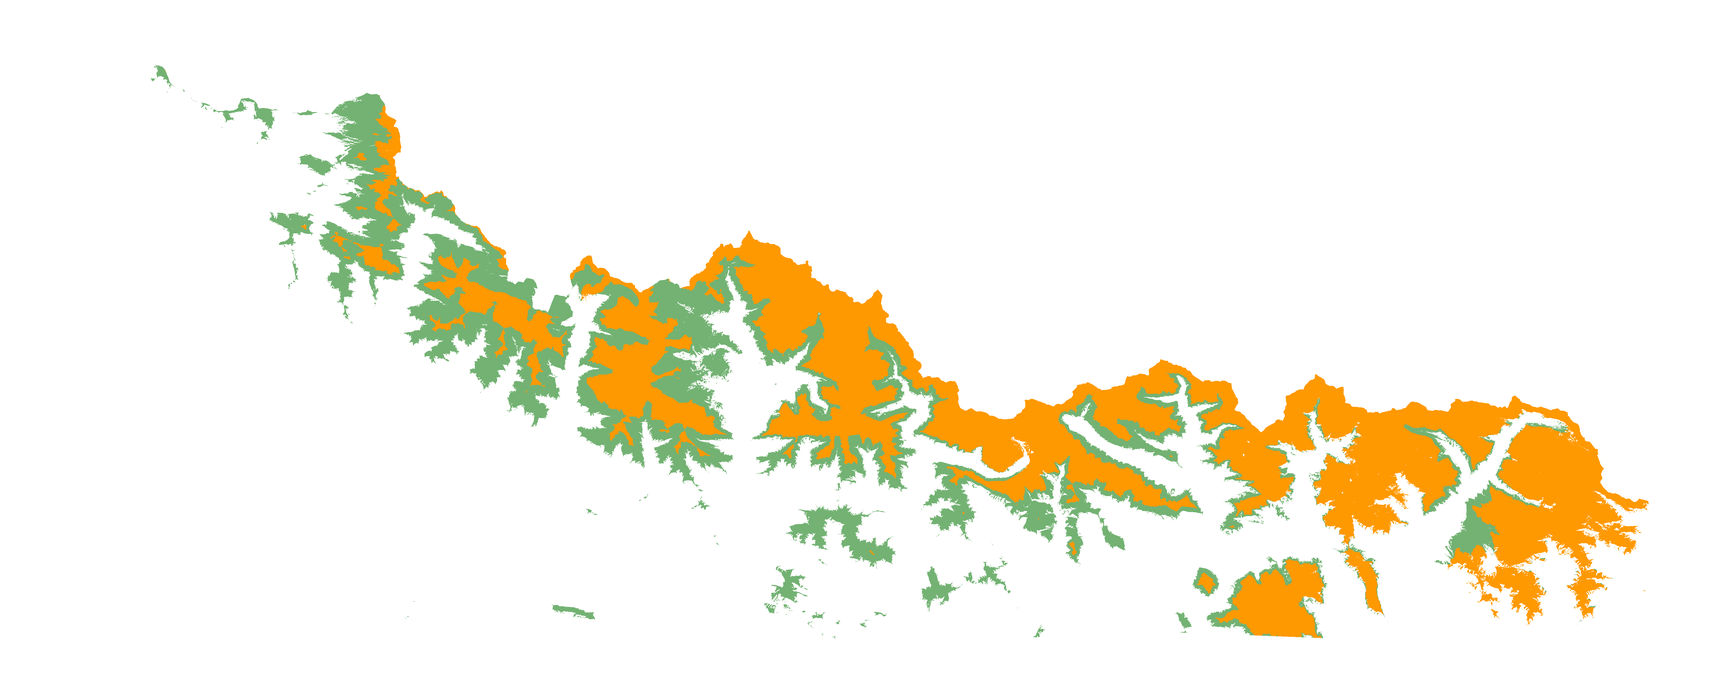
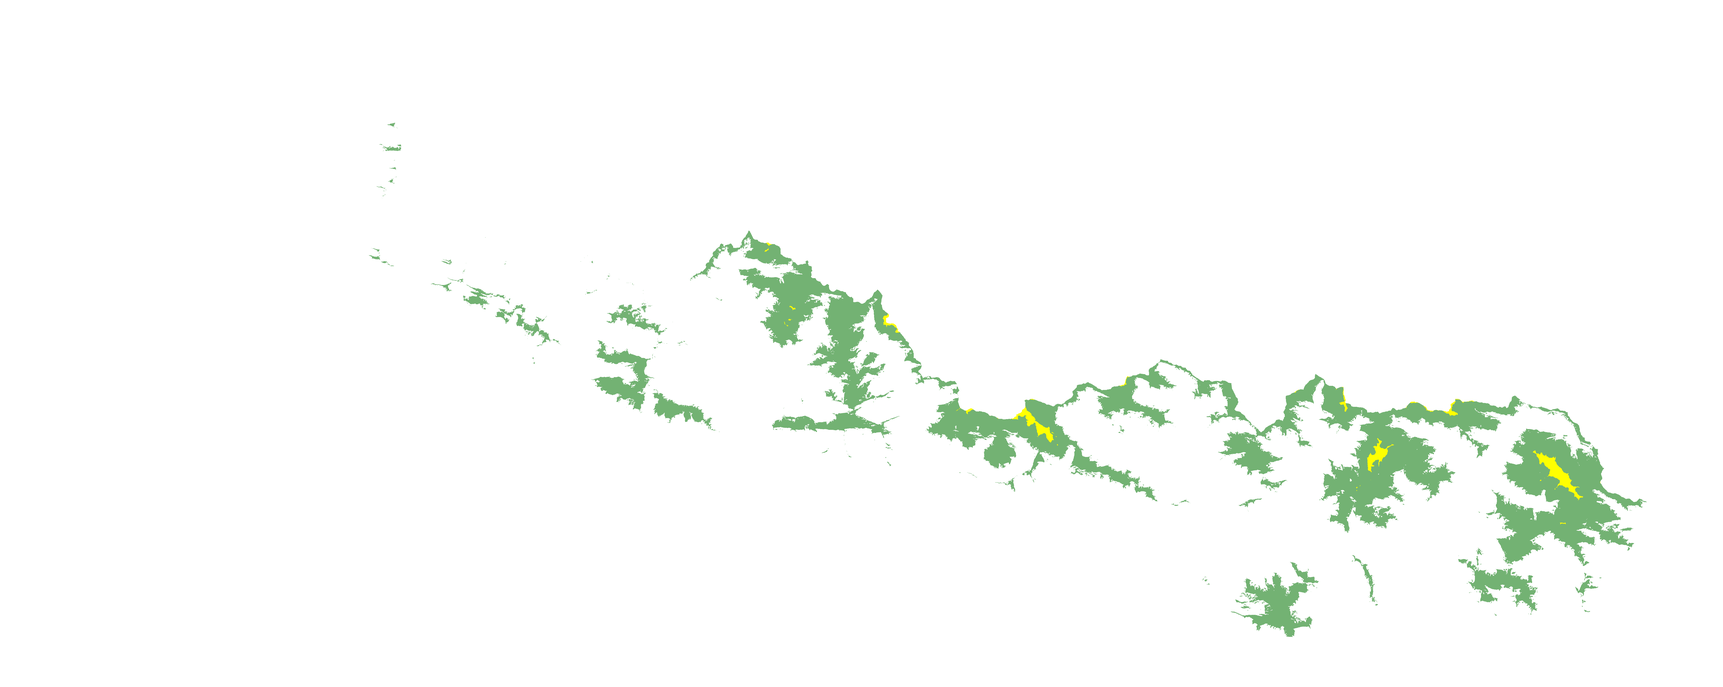
Lunes 16

diff --git a/layers/Nivmetros_4.js b/layers/Nivmetros_4.js
@@ -1,0 +1,1 @@
+var json_Nivmetros_4 = {"type":"FeatureCollection","name":"Nivmetros_4","crs":{"type":"name","properties":{"name":"urn:ogc:def:crs:OGC:1.3:CRS84"}},"features":[{"type":"Feature","properties":{"fid":"1","nombre":"Lizara","tipo":"Refugios FAM","coordenada x":693581.68302999996,"coordenada y":4737333.8582199998,"espesor":0.0,"fecha":null,"Altura":1521.78296,"espesor teórico":0.0,"residuo":0.0},"geometry":{"type":"Point","coordinates":[-0.634092478083963,42.764102460019188]}},{"type":"Feature","properties":{"fid":"2","nombre":"Casa de Piedra","tipo":"Refugios FAM","coordenada x":726359.21985999995,"coordenada y":4738169.3337599998,"espesor":0.0,"fecha":null,"Altura":1639.22498,"espesor teórico":0.0,"residuo":0.0},"geometry":{"type":"Point","coordinates":[-0.233581308681857,42.762645417462728]}},{"type":"Feature","properties":{"fid":"3","nombre":"Respomuso","tipo":"Refugios FAM","coordenada x":721743.6233,"coordenada y":4744055.5332500003,"espesor":1.0,"fecha":null,"Altura":2143.3269,"espesor teórico":0.0,"residuo":1.0},"geometry":{"type":"Point","coordinates":[-0.287615323405017,42.816941924670928]}},{"type":"Feature","properties":{"fid":"4","nombre":"Bachimaña","tipo":"Refugios FAM","coordenada x":726787.39141000004,"coordenada y":4740111.5631799996,"espesor":2.0,"fecha":null,"Altura":2189.64893,"espesor teórico":0.0,"residuo":2.0},"geometry":{"type":"Point","coordinates":[-0.227574750252922,42.779989088848616]}},{"type":"Feature","properties":{"fid":"5","nombre":"Góriz","tipo":"Refugios FAM","coordenada x":747096.9437,"coordenada y":4727836.7968600001,"espesor":0.0,"fecha":null,"Altura":2192.49805,"espesor teórico":0.0,"residuo":0.0},"geometry":{"type":"Point","coordinates":[0.015028328820596,42.663325285961221]}},{"type":"Feature","properties":{"fid":"6","nombre":"Pineta","tipo":"Refugios FAM","coordenada x":754361.94833000004,"coordenada y":4728421.0887200003,"espesor":0.0,"fecha":null,"Altura":1241.09094,"espesor teórico":0.0,"residuo":0.0},"geometry":{"type":"Point","coordinates":[0.103811223545876,42.666213199568325]}},{"type":"Feature","properties":{"fid":"7","nombre":"Estós","tipo":"Refugios FAM","coordenada x":785584.46502,"coordenada y":4730663.9656800004,"espesor":0.0,"fecha":null,"Altura":1894.08801,"espesor teórico":0.0,"residuo":0.0},"geometry":{"type":"Point","coordinates":[0.485277747576362,42.675425811572559]}},{"type":"Feature","properties":{"fid":"8","nombre":"Ángel Orús","tipo":"Refugios FAM","coordenada x":783518.57593000005,"coordenada y":4725241.4898899999,"espesor":null,"fecha":null,"Altura":2111.10693,"espesor teórico":0.0,"residuo":null},"geometry":{"type":"Point","coordinates":[0.457406411436772,42.627445963182311]}},{"type":"Feature","properties":{"fid":"9","nombre":"Renclusa","tipo":"Refugios FAM","coordenada x":799183.1625,"coordenada y":4730562.7193400003,"espesor":null,"fecha":null,"Altura":2138.42505,"espesor teórico":0.0,"residuo":null},"geometry":{"type":"Point","coordinates":[0.650862385917661,42.669349881769421]}},{"type":"Feature","properties":{"fid":"10","nombre":"Cap de Llauset","tipo":"Refugios FAM","coordenada x":802194.27506000001,"coordenada y":4722560.3940300001,"espesor":null,"fecha":null,"Altura":2421.94092,"espesor teórico":2.76806,"residuo":null},"geometry":{"type":"Point","coordinates":[0.683283592250226,42.596256729961645]}},{"type":"Feature","properties":{"fid":"11","nombre":"Quimboa","tipo":"SAIH","coordenada x":682666.40000999998,"coordenada y":4748199.6773800002,"espesor":null,"fecha":null,"Altura":1812.48401,"espesor teórico":0.0,"residuo":null},"geometry":{"type":"Point","coordinates":[-0.763872812183502,42.864556450581759]}},{"type":"Feature","properties":{"fid":"12","nombre":"Canal Roya","tipo":"SAIH","coordenada x":708647.29315000004,"coordenada y":4740545.1448400002,"espesor":null,"fecha":null,"Altura":1867.35303,"espesor teórico":0.0,"residuo":null},"geometry":{"type":"Point","coordinates":[-0.448949429023893,42.789042421793091]}},{"type":"Feature","properties":{"fid":"13","nombre":"Izas","tipo":"SAIH","coordenada x":710245.59417000005,"coordenada y":4735934.1855199998,"espesor":3.0,"fecha":null,"Altura":2084.34497,"espesor teórico":0.0,"residuo":3.0},"geometry":{"type":"Point","coordinates":[-0.431142530867644,42.747123610739408]}},{"type":"Feature","properties":{"fid":"14","nombre":"Bachimaña","tipo":"SAIH","coordenada x":727282.03001999995,"coordenada y":4741347.3868399998,"espesor":null,"fecha":null,"Altura":2219.41406,"espesor teórico":0.0,"residuo":null},"geometry":{"type":"Point","coordinates":[-0.221037285605676,42.790958606081027]}},{"type":"Feature","properties":{"fid":"15","nombre":"Lapazosa","tipo":"SAIH","coordenada x":739389.85580999998,"coordenada y":4732574.5073199999,"espesor":null,"fecha":null,"Altura":2109.20703,"espesor teórico":0.0,"residuo":null},"geometry":{"type":"Point","coordinates":[-0.0768921950356,42.708371135834817]}},{"type":"Feature","properties":{"fid":"16","nombre":"Ordiceto","tipo":"SAIH","coordenada x":768524.07010999997,"coordenada y":4729209.4190100003,"espesor":null,"fecha":null,"Altura":2396.09692,"espesor teórico":0.0,"residuo":null},"geometry":{"type":"Point","coordinates":[0.276726906928964,42.668491107199706]}},{"type":"Feature","properties":{"fid":"17","nombre":"Eriste","tipo":"SAIH","coordenada x":783049.44212000002,"coordenada y":4724892.1513599996,"espesor":null,"fecha":null,"Altura":2301.33594,"espesor teórico":2.64537,"residuo":null},"geometry":{"type":"Point","coordinates":[0.45152191493727,42.624478057715478]}},{"type":"Feature","properties":{"fid":"18","nombre":"La Besurta","tipo":"SAIH","coordenada x":799420.43446000002,"coordenada y":4731388.9204000002,"espesor":null,"fecha":null,"Altura":1924.05103,"espesor teórico":0.0,"residuo":null},"geometry":{"type":"Point","coordinates":[0.654187592758037,42.676682913229207]}},{"type":"Feature","properties":{"fid":"19","nombre":"La Raca","tipo":"AEMET","coordenada x":704033.24234,"coordenada y":4740875.9344199998,"espesor":null,"fecha":null,"Altura":2273.71191,"espesor teórico":0.0,"residuo":null},"geometry":{"type":"Point","coordinates":[-0.505191301972843,42.79326096351118]}},{"type":"Feature","properties":{"fid":"20","nombre":"Sarrios","tipo":"AEMET","coordenada x":713401.61404999997,"coordenada y":4737709.5535399998,"espesor":0.0,"fecha":null,"Altura":1801.48804,"espesor teórico":0.0,"residuo":0.0},"geometry":{"type":"Point","coordinates":[-0.391949690152991,42.762223942647786]}},{"type":"Feature","properties":{"fid":"21","nombre":"Panticosa Petrosos","tipo":"AEMET","coordenada x":723145.85332,"coordenada y":4731581.15484,"espesor":0.0,"fecha":null,"Altura":1850.20898,"espesor teórico":0.0,"residuo":0.0},"geometry":{"type":"Point","coordinates":[-0.275406696360555,42.704324343555108]}},{"type":"Feature","properties":{"fid":"22","nombre":"Torla Cebollar","tipo":"AEMET","coordenada x":735646.77480999997,"coordenada y":4726633.4512200002,"espesor":0.0,"fecha":null,"Altura":1901.88904,"espesor teórico":0.0,"residuo":0.0},"geometry":{"type":"Point","coordinates":[-0.125007947667872,42.656092797543572]}},{"type":"Feature","properties":{"fid":"23","nombre":"Cerler Cogulla","tipo":"AEMET","coordenada x":790918.17727,"coordenada y":4717454.5680099996,"espesor":0.0,"fecha":null,"Altura":2367.66309,"espesor teórico":0.0,"residuo":0.0},"geometry":{"type":"Point","coordinates":[0.543503723024574,42.554696524808286]}},{"type":"Feature","properties":{"fid":"24","nombre":"Cerler max.","tipo":"Estación Esquí","coordenada x":791974.21972000005,"coordenada y":4716343.6662100004,"espesor":null,"fecha":null,"Altura":2616.4751,"espesor teórico":10.87208,"residuo":null},"geometry":{"type":"Point","coordinates":[0.555775171227835,42.54431301300361]}},{"type":"Feature","properties":{"fid":"25","nombre":"Cerler min.","tipo":"Estación Esquí","coordenada x":790690.51098000002,"coordenada y":4720939.5080800001,"espesor":null,"fecha":null,"Altura":1540.17505,"espesor teórico":0.0,"residuo":null},"geometry":{"type":"Point","coordinates":[0.542510243982016,42.58610670016926]}},{"type":"Feature","properties":{"fid":"26","nombre":"Panticosa max.","tipo":"Estación Esquí","coordenada x":723434.32204999996,"coordenada y":4730334.1713899998,"espesor":null,"fecha":null,"Altura":2201.23291,"espesor teórico":0.0,"residuo":null},"geometry":{"type":"Point","coordinates":[-0.272379770577874,42.693023495753032]}},{"type":"Feature","properties":{"fid":"27","nombre":"Panticosa min.","tipo":"Estación Esquí","coordenada x":722693.72086,"coordenada y":4733344.5780999996,"espesor":null,"fecha":null,"Altura":1178.84204,"espesor teórico":0.0,"residuo":null},"geometry":{"type":"Point","coordinates":[-0.280228082617394,42.720318147252122]}},{"type":"Feature","properties":{"fid":"28","nombre":"Formigal max.","tipo":"Estación Esquí","coordenada x":713635.07105000003,"coordenada y":4736854.2048800001,"espesor":null,"fecha":null,"Altura":2108.82104,"espesor teórico":0.0,"residuo":null},"geometry":{"type":"Point","coordinates":[-0.389422680845151,42.75446414626942]}},{"type":"Feature","properties":{"fid":"29","nombre":"Formigal min.","tipo":"Estación Esquí","coordenada x":714647.22601999994,"coordenada y":4738927.8882200001,"espesor":null,"fecha":null,"Altura":1549.63306,"espesor teórico":0.0,"residuo":null},"geometry":{"type":"Point","coordinates":[-0.376279346106182,42.77283651598659]}},{"type":"Feature","properties":{"fid":"30","nombre":"Astun max.","tipo":"Estación Esquí","coordenada x":704185.54839000001,"coordenada y":4741308.7839200003,"espesor":null,"fecha":null,"Altura":2152.88696,"espesor teórico":0.0,"residuo":null},"geometry":{"type":"Point","coordinates":[-0.503174061736756,42.797114669986357]}},{"type":"Feature","properties":{"fid":"31","nombre":"Astún min,","tipo":"Estación Esquí","coordenada x":703535.46511999995,"coordenada y":4742438.8864799999,"espesor":null,"fecha":null,"Altura":1691.13696,"espesor teórico":0.0,"residuo":null},"geometry":{"type":"Point","coordinates":[-0.51070826177788,42.807455075452744]}},{"type":"Feature","properties":{"fid":"32","nombre":"Candanchú min.","tipo":"Estación Esquí","coordenada x":701349.32010999997,"coordenada y":4740042.9044700004,"espesor":null,"fecha":null,"Altura":1588.74304,"espesor teórico":0.0,"residuo":null},"geometry":{"type":"Point","coordinates":[-0.538276316266434,42.786476166848971]}},{"type":"Feature","properties":{"fid":"33","nombre":"Candanchú mx.","tipo":"Estación Esquí","coordenada x":699961.37861000001,"coordenada y":4738384.7806799999,"espesor":null,"fecha":null,"Altura":2233.81689,"espesor teórico":0.0,"residuo":null},"geometry":{"type":"Point","coordinates":[-0.555817547486748,42.771921065413672]}},{"type":"Feature","properties":{"fid":"34","nombre":"Jaca","tipo":"Observadores","coordenada x":null,"coordenada y":null,"espesor":0.0,"fecha":null,"Altura":824.70599,"espesor teórico":0.0,"residuo":0.0},"geometry":{"type":"Point","coordinates":[-0.546638627301364,42.574532831729236]}},{"type":"Feature","properties":{"fid":"35","nombre":"Villanúa","tipo":"Observadores","coordenada x":null,"coordenada y":null,"espesor":0.0,"fecha":null,"Altura":946.16498,"espesor teórico":0.0,"residuo":0.0},"geometry":{"type":"Point","coordinates":[-0.533268652298291,42.679916447977575]}},{"type":"Feature","properties":{"fid":"36","nombre":"Biescas","tipo":"Observadores","coordenada x":null,"coordenada y":null,"espesor":0.0,"fecha":null,"Altura":854.70697,"espesor teórico":0.0,"residuo":0.0},"geometry":{"type":"Point","coordinates":[-0.322820178381034,42.629160583346923]}},{"type":"Feature","properties":{"fid":"37","nombre":"Broto","tipo":"Observadores","coordenada x":null,"coordenada y":null,"espesor":0.0,"fecha":null,"Altura":892.48999,"espesor teórico":0.0,"residuo":0.0},"geometry":{"type":"Point","coordinates":[-0.121433968511865,42.603367094330238]}},{"type":"Feature","properties":{"fid":"38","nombre":"Benasque","tipo":"Observadores","coordenada x":null,"coordenada y":null,"espesor":0.0,"fecha":null,"Altura":1133.93396,"espesor teórico":0.0,"residuo":0.0},"geometry":{"type":"Point","coordinates":[0.523709628653981,42.60452774710491]}},{"type":"Feature","properties":{"fid":"39","nombre":"Laspuña","tipo":"Observadores","coordenada x":null,"coordenada y":null,"espesor":0.0,"fecha":null,"Altura":711.93201,"espesor teórico":0.0,"residuo":0.0},"geometry":{"type":"Point","coordinates":[0.153726232788668,42.504468965034164]}}]}

diff --git a/layers/layers.js b/layers/layers.js
@@ -17,87 +17,106 @@ var lyr_MapasrasterdelIGN_0 = new ol.layer.Tile({
                             
                           });
               wms_layers.push([lyr_MapasrasterdelIGN_0, 0]);
-var lyr_BPA_final_1 = new ol.layer.Image({
+var lyr_Pendiente_1 = new ol.layer.Image({
+        opacity: 1,
+        
+    title: 'Pendiente<br />\
+    <img src="styles/legend/Pendiente_1_0.png" /> <= 25º<br />\
+    <img src="styles/legend/Pendiente_1_1.png" /> 25º - 30º<br />\
+    <img src="styles/legend/Pendiente_1_2.png" /> 30º - 45º<br />\
+    <img src="styles/legend/Pendiente_1_3.png" /> > 45º<br />' ,
+        
+        
+        source: new ol.source.ImageStatic({
+            url: "./layers/Pendiente_1.png",
+            attributions: ' ',
+            projection: 'EPSG:3857',
+            alwaysInRange: true,
+            imageExtent: [-133908.073809, 5228671.936464, 93989.753013, 5319585.631461]
+        })
+    });
+var lyr_BPA_final_2 = new ol.layer.Image({
         opacity: 1,
         
     title: 'BPA_final<br />\
-    <img src="styles/legend/BPA_final_1_0.png" /> 0<br />\
-    <img src="styles/legend/BPA_final_1_1.png" /> Débil<br />\
-    <img src="styles/legend/BPA_final_1_2.png" /> Moderado<br />\
-    <img src="styles/legend/BPA_final_1_3.png" /> Notable<br />\
-    <img src="styles/legend/BPA_final_1_4.png" /> Fuerte<br />\
-    <img src="styles/legend/BPA_final_1_5.png" /> Muy fuerte<br />' ,
+    <img src="styles/legend/BPA_final_2_0.png" /> 0<br />\
+    <img src="styles/legend/BPA_final_2_1.png" /> Débil<br />\
+    <img src="styles/legend/BPA_final_2_2.png" /> Moderado<br />\
+    <img src="styles/legend/BPA_final_2_3.png" /> Notable<br />\
+    <img src="styles/legend/BPA_final_2_4.png" /> Fuerte<br />\
+    <img src="styles/legend/BPA_final_2_5.png" /> Muy fuerte<br />' ,
         
         
         source: new ol.source.ImageStatic({
-            url: "./layers/BPA_final_1.png",
+            url: "./layers/BPA_final_2.png",
             attributions: ' ',
             projection: 'EPSG:3857',
             alwaysInRange: true,
-            imageExtent: [-133908.791385, 5228636.520462, 94023.819477, 5319585.631461]
+            imageExtent: [-133908.073809, 5228671.936464, 93989.753013, 5319585.631461]
         })
     });
-var lyr_MapaEspesores13noviembre_2 = new ol.layer.Image({
+var lyr_Mapaespesores16noviembre_3 = new ol.layer.Image({
         opacity: 1,
         
-    title: 'Mapa Espesores 13 noviembre<br />\
-    <img src="styles/legend/MapaEspesores13noviembre_2_0.png" /> 0<br />\
-    <img src="styles/legend/MapaEspesores13noviembre_2_1.png" /> 1 - 2<br />\
-    <img src="styles/legend/MapaEspesores13noviembre_2_2.png" /> 2 - 5<br />\
-    <img src="styles/legend/MapaEspesores13noviembre_2_3.png" /> 5 - 10<br />' ,
+    title: 'Mapa espesores 16 noviembre<br />\
+    <img src="styles/legend/Mapaespesores16noviembre_3_0.png" /> 0<br />\
+    <img src="styles/legend/Mapaespesores16noviembre_3_1.png" /> 1 - 2<br />\
+    <img src="styles/legend/Mapaespesores16noviembre_3_2.png" /> 2 - 10 <br />\
+    <img src="styles/legend/Mapaespesores16noviembre_3_3.png" /> 10 - 20<br />\
+    <img src="styles/legend/Mapaespesores16noviembre_3_4.png" /> 20 - 30<br />' ,
         
         
         source: new ol.source.ImageStatic({
-            url: "./layers/MapaEspesores13noviembre_2.png",
+            url: "./layers/Mapaespesores16noviembre_3.png",
             attributions: ' ',
             projection: 'EPSG:3857',
             alwaysInRange: true,
             imageExtent: [-133908.791385, 5228636.520462, 94023.819477, 5319585.631461]
         })
     });
-var format_Nivmetros_3 = new ol.format.GeoJSON();
-var features_Nivmetros_3 = format_Nivmetros_3.readFeatures(json_Nivmetros_3, 
+var format_Nivmetros_4 = new ol.format.GeoJSON();
+var features_Nivmetros_4 = format_Nivmetros_4.readFeatures(json_Nivmetros_4, 
             {dataProjection: 'EPSG:4326', featureProjection: 'EPSG:3857'});
-var jsonSource_Nivmetros_3 = new ol.source.Vector({
+var jsonSource_Nivmetros_4 = new ol.source.Vector({
     attributions: ' ',
 });
-jsonSource_Nivmetros_3.addFeatures(features_Nivmetros_3);
-var lyr_Nivmetros_3 = new ol.layer.Vector({
+jsonSource_Nivmetros_4.addFeatures(features_Nivmetros_4);
+var lyr_Nivmetros_4 = new ol.layer.Vector({
                 declutter: false,
-                source:jsonSource_Nivmetros_3, 
-                style: style_Nivmetros_3,
+                source:jsonSource_Nivmetros_4, 
+                style: style_Nivmetros_4,
                 popuplayertitle: 'Nivómetros',
                 interactive: true,
     title: 'Nivómetros<br />\
-    <img src="styles/legend/Nivmetros_3_0.png" /> AEMET<br />\
-    <img src="styles/legend/Nivmetros_3_1.png" /> Estación Esquí<br />\
-    <img src="styles/legend/Nivmetros_3_2.png" /> Observadores<br />\
-    <img src="styles/legend/Nivmetros_3_3.png" /> Refugios FAM<br />\
-    <img src="styles/legend/Nivmetros_3_4.png" /> SAIH<br />' });
-var format_WebCamsPirineos_4 = new ol.format.GeoJSON();
-var features_WebCamsPirineos_4 = format_WebCamsPirineos_4.readFeatures(json_WebCamsPirineos_4, 
+    <img src="styles/legend/Nivmetros_4_0.png" /> AEMET<br />\
+    <img src="styles/legend/Nivmetros_4_1.png" /> Estación Esquí<br />\
+    <img src="styles/legend/Nivmetros_4_2.png" /> Observadores<br />\
+    <img src="styles/legend/Nivmetros_4_3.png" /> Refugios FAM<br />\
+    <img src="styles/legend/Nivmetros_4_4.png" /> SAIH<br />' });
+var format_WebCamsPirineos_5 = new ol.format.GeoJSON();
+var features_WebCamsPirineos_5 = format_WebCamsPirineos_5.readFeatures(json_WebCamsPirineos_5, 
             {dataProjection: 'EPSG:4326', featureProjection: 'EPSG:3857'});
-var jsonSource_WebCamsPirineos_4 = new ol.source.Vector({
+var jsonSource_WebCamsPirineos_5 = new ol.source.Vector({
     attributions: ' ',
 });
-jsonSource_WebCamsPirineos_4.addFeatures(features_WebCamsPirineos_4);
-var lyr_WebCamsPirineos_4 = new ol.layer.Vector({
+jsonSource_WebCamsPirineos_5.addFeatures(features_WebCamsPirineos_5);
+var lyr_WebCamsPirineos_5 = new ol.layer.Vector({
                 declutter: false,
-                source:jsonSource_WebCamsPirineos_4, 
-                style: style_WebCamsPirineos_4,
+                source:jsonSource_WebCamsPirineos_5, 
+                style: style_WebCamsPirineos_5,
                 popuplayertitle: 'WebCams Pirineos',
                 interactive: true,
-                title: '<img src="styles/legend/WebCamsPirineos_4.png" /> WebCams Pirineos'
+                title: '<img src="styles/legend/WebCamsPirineos_5.png" /> WebCams Pirineos'
             });
 
-lyr_MapasrasterdelIGN_0.setVisible(true);lyr_BPA_final_1.setVisible(true);lyr_MapaEspesores13noviembre_2.setVisible(true);lyr_Nivmetros_3.setVisible(true);lyr_WebCamsPirineos_4.setVisible(true);
-var layersList = [lyr_MapasrasterdelIGN_0,lyr_BPA_final_1,lyr_MapaEspesores13noviembre_2,lyr_Nivmetros_3,lyr_WebCamsPirineos_4];
-lyr_Nivmetros_3.set('fieldAliases', {'fid': 'fid', 'nombre': 'nombre', 'tipo': 'tipo', 'coordenada x': 'coordenada x', 'coordenada y': 'coordenada y', 'espesor': 'espesor', 'fecha': 'fecha', 'Altura': 'Altura', 'espesor teórico': 'espesor teórico', 'residuo': 'residuo', });
-lyr_WebCamsPirineos_4.set('fieldAliases', {'fid': 'fid', 'Nombre': 'Nombre', 'Altitud': 'Altitud', 'Url_imagen': 'Url_imagen', });
-lyr_Nivmetros_3.set('fieldImages', {'fid': 'TextEdit', 'nombre': 'TextEdit', 'tipo': 'TextEdit', 'coordenada x': 'TextEdit', 'coordenada y': 'TextEdit', 'espesor': 'TextEdit', 'fecha': 'DateTime', 'Altura': 'TextEdit', 'espesor teórico': 'TextEdit', 'residuo': 'TextEdit', });
-lyr_WebCamsPirineos_4.set('fieldImages', {'fid': 'TextEdit', 'Nombre': 'TextEdit', 'Altitud': 'Range', 'Url_imagen': 'ExternalResource', });
-lyr_Nivmetros_3.set('fieldLabels', {'fid': 'hidden field', 'nombre': 'inline label - always visible', 'tipo': 'inline label - always visible', 'coordenada x': 'no label', 'coordenada y': 'no label', 'espesor': 'inline label - always visible', 'fecha': 'no label', 'Altura': 'inline label - always visible', 'espesor teórico': 'hidden field', 'residuo': 'hidden field', });
-lyr_WebCamsPirineos_4.set('fieldLabels', {'fid': 'no label', 'Nombre': 'no label', 'Altitud': 'no label', 'Url_imagen': 'header label - visible with data', });
-lyr_WebCamsPirineos_4.on('precompose', function(evt) {
+lyr_MapasrasterdelIGN_0.setVisible(true);lyr_Pendiente_1.setVisible(true);lyr_BPA_final_2.setVisible(true);lyr_Mapaespesores16noviembre_3.setVisible(true);lyr_Nivmetros_4.setVisible(true);lyr_WebCamsPirineos_5.setVisible(true);
+var layersList = [lyr_MapasrasterdelIGN_0,lyr_Pendiente_1,lyr_BPA_final_2,lyr_Mapaespesores16noviembre_3,lyr_Nivmetros_4,lyr_WebCamsPirineos_5];
+lyr_Nivmetros_4.set('fieldAliases', {'fid': 'fid', 'nombre': 'nombre', 'tipo': 'tipo', 'coordenada x': 'coordenada x', 'coordenada y': 'coordenada y', 'espesor': 'espesor', 'fecha': 'fecha', 'Altura': 'Altura', 'espesor teórico': 'espesor teórico', 'residuo': 'residuo', });
+lyr_WebCamsPirineos_5.set('fieldAliases', {'fid': 'fid', 'Nombre': 'Nombre', 'Altitud': 'Altitud', 'Url_imagen': 'Url_imagen', });
+lyr_Nivmetros_4.set('fieldImages', {'fid': 'TextEdit', 'nombre': 'TextEdit', 'tipo': 'TextEdit', 'coordenada x': 'TextEdit', 'coordenada y': 'TextEdit', 'espesor': 'TextEdit', 'fecha': 'DateTime', 'Altura': 'TextEdit', 'espesor teórico': 'TextEdit', 'residuo': 'TextEdit', });
+lyr_WebCamsPirineos_5.set('fieldImages', {'fid': 'TextEdit', 'Nombre': 'TextEdit', 'Altitud': 'Range', 'Url_imagen': 'ExternalResource', });
+lyr_Nivmetros_4.set('fieldLabels', {'fid': 'hidden field', 'nombre': 'inline label - always visible', 'tipo': 'inline label - always visible', 'coordenada x': 'no label', 'coordenada y': 'no label', 'espesor': 'inline label - always visible', 'fecha': 'no label', 'Altura': 'inline label - always visible', 'espesor teórico': 'hidden field', 'residuo': 'hidden field', });
+lyr_WebCamsPirineos_5.set('fieldLabels', {'fid': 'no label', 'Nombre': 'no label', 'Altitud': 'no label', 'Url_imagen': 'header label - visible with data', });
+lyr_WebCamsPirineos_5.on('precompose', function(evt) {
     evt.context.globalCompositeOperation = 'normal';
 });

diff --git a/layers/WebCamsPirineos_5.js b/layers/WebCamsPirineos_5.js
@@ -1,0 +1,1 @@
+var json_WebCamsPirineos_5 = {"type":"FeatureCollection","name":"WebCamsPirineos_5","crs":{"type":"name","properties":{"name":"urn:ogc:def:crs:OGC:1.3:CRS84"}},"features":[{"type":"Feature","properties":{"fid":"1","Nombre":"Refugio de Belagua","Altitud":null,"Url_imagen":"https://www.alberguesyrefugios.com/webcams#gallery-webcam-1"},"geometry":{"type":"Point","coordinates":[-0.833510852686476,42.945901416148338]}},{"type":"Feature","properties":{"fid":"2","Nombre":"Refugio de Linza 1","Altitud":null,"Url_imagen":"https://www.alberguesyrefugios.com/webcams#gallery-webcam-2"},"geometry":{"type":"Point","coordinates":[-0.799532907621096,42.898314763374209]}},{"type":"Feature","properties":{"fid":"3","Nombre":"Refugio de Linza 2","Altitud":null,"Url_imagen":"https://www.alberguesyrefugios.com/webcams#gallery-webcam-3"},"geometry":{"type":"Point","coordinates":[-0.800154897306441,42.89735431530422]}},{"type":"Feature","properties":{"fid":"4","Nombre":"Refugio de Gabardito","Altitud":null,"Url_imagen":"https://www.alberguesyrefugios.com/webcams#gallery-webcam-4"},"geometry":{"type":"Point","coordinates":[-0.712124385114573,42.787438385448993]}},{"type":"Feature","properties":{"fid":"5","Nombre":"Refugio de Lizara","Altitud":null,"Url_imagen":"https://www.alberguesyrefugios.com/webcams#gallery-webcam-5"},"geometry":{"type":"Point","coordinates":[-0.643938663132799,42.767706297770395]}},{"type":"Feature","properties":{"fid":"6","Nombre":"Canal Roya","Altitud":null,"Url_imagen":"https://www.alberguesyrefugios.com/webcams#gallery-webcam-6"},"geometry":{"type":"Point","coordinates":[-0.49432873212891,42.796734737934067]}},{"type":"Feature","properties":{"fid":"7","Nombre":"Respomuso 1","Altitud":null,"Url_imagen":"https://www.alberguesyrefugios.com/webcams#gallery-webcam-7"},"geometry":{"type":"Point","coordinates":[-0.296604976090414,42.818066071213593]}},{"type":"Feature","properties":{"fid":"8","Nombre":"Respomuso 2","Altitud":null,"Url_imagen":"https://www.alberguesyrefugios.com/webcams#gallery-webcam-8"},"geometry":{"type":"Point","coordinates":[-0.280569464103449,42.814834574281555]}},{"type":"Feature","properties":{"fid":"9","Nombre":"Bachimaña 1","Altitud":null,"Url_imagen":"https://www.alberguesyrefugios.com/webcams#gallery-webcam-9"},"geometry":{"type":"Point","coordinates":[-0.225610473265168,42.780303455995821]}},{"type":"Feature","properties":{"fid":"10","Nombre":"Bachimaña 2","Altitud":null,"Url_imagen":"https://www.alberguesyrefugios.com/webcams#gallery-webcam-10"},"geometry":{"type":"Point","coordinates":[-0.229719750062259,42.780067539380489]}},{"type":"Feature","properties":{"fid":"11","Nombre":"Casa de Piedra","Altitud":null,"Url_imagen":"https://www.alberguesyrefugios.com/webcams#gallery-webcam-11"},"geometry":{"type":"Point","coordinates":[-0.235919023487597,42.763569583771009]}},{"type":"Feature","properties":{"fid":"12","Nombre":"Cebollar Norte","Altitud":null,"Url_imagen":"https://www.alberguesyrefugios.com/webcams#gallery-webcam-13"},"geometry":{"type":"Point","coordinates":[-0.122052051578395,42.656912478325815]}},{"type":"Feature","properties":{"fid":"13","Nombre":"Cebollar Este","Altitud":null,"Url_imagen":"https://www.alberguesyrefugios.com/webcams#gallery-webcam-14"},"geometry":{"type":"Point","coordinates":[-0.120592387890761,42.655303224961727]}},{"type":"Feature","properties":{"fid":"14","Nombre":"Mondicieto Oeste","Altitud":null,"Url_imagen":"https://www.alberguesyrefugios.com/webcams#gallery-webcam-15"},"geometry":{"type":"Point","coordinates":[-0.001464377421969,42.62680076726916]}},{"type":"Feature","properties":{"fid":"15","Nombre":"Mondicieto Este","Altitud":null,"Url_imagen":"https://www.alberguesyrefugios.com/webcams#gallery-webcam-16"},"geometry":{"type":"Point","coordinates":[0.001480382561553,42.624270431783366]}},{"type":"Feature","properties":{"fid":"16","Nombre":"Refugio de Goriz 1","Altitud":null,"Url_imagen":"https://www.alberguesyrefugios.com/webcams#gallery-webcam-17"},"geometry":{"type":"Point","coordinates":[0.015522624033057,42.661925124016989]}},{"type":"Feature","properties":{"fid":"17","Nombre":"Refugio de Goriz 2","Altitud":null,"Url_imagen":"https://www.alberguesyrefugios.com/webcams#gallery-webcam-18"},"geometry":{"type":"Point","coordinates":[0.014624239189689,42.66449628311301]}},{"type":"Feature","properties":{"fid":"18","Nombre":"Pineta","Altitud":null,"Url_imagen":"https://www.alberguesyrefugios.com/webcams#gallery-webcam-19"},"geometry":{"type":"Point","coordinates":[0.101981804516386,42.667005219465473]}},{"type":"Feature","properties":{"fid":"19","Nombre":"Viadós","Altitud":null,"Url_imagen":"https://www.alberguesyrefugios.com/webcams#gallery-webcam-20"},"geometry":{"type":"Point","coordinates":[0.377540263461884,42.660637118182159]}},{"type":"Feature","properties":{"fid":"20","Nombre":"Ángel Orús 1","Altitud":null,"Url_imagen":"https://www.alberguesyrefugios.com/webcams#gallery-webcam-21"},"geometry":{"type":"Point","coordinates":[0.455225663275691,42.628579740480511]}},{"type":"Feature","properties":{"fid":"21","Nombre":"Ángel Orús 2","Altitud":null,"Url_imagen":"https://www.alberguesyrefugios.com/webcams#gallery-webcam-22"},"geometry":{"type":"Point","coordinates":[0.45991077461916,42.62551336897824]}},{"type":"Feature","properties":{"fid":"22","Nombre":"Estós 1","Altitud":null,"Url_imagen":"https://www.alberguesyrefugios.com/webcams#gallery-webcam-23"},"geometry":{"type":"Point","coordinates":[0.488349460974783,42.674843115383887]}},{"type":"Feature","properties":{"fid":"23","Nombre":"Estós 2","Altitud":null,"Url_imagen":"https://www.alberguesyrefugios.com/webcams#gallery-webcam-24"},"geometry":{"type":"Point","coordinates":[0.482402838384371,42.675967750478478]}},{"type":"Feature","properties":{"fid":"24","Nombre":"Renclusa 1","Altitud":null,"Url_imagen":"https://www.alberguesyrefugios.com/webcams#gallery-webcam-25"},"geometry":{"type":"Point","coordinates":[0.649191035945232,42.66817470241773]}},{"type":"Feature","properties":{"fid":"25","Nombre":"Renclusa 2","Altitud":null,"Url_imagen":"https://www.alberguesyrefugios.com/webcams#gallery-webcam-26"},"geometry":{"type":"Point","coordinates":[0.650915814234862,42.670336814066665]}},{"type":"Feature","properties":{"fid":"26","Nombre":"Cogulla","Altitud":null,"Url_imagen":"https://www.alberguesyrefugios.com/webcams#gallery-webcam-27"},"geometry":{"type":"Point","coordinates":[0.546918591084259,42.553597811525322]}},{"type":"Feature","properties":{"fid":"27","Nombre":"Llauset 1","Altitud":null,"Url_imagen":"https://www.alberguesyrefugios.com/webcams#gallery-webcam-28"},"geometry":{"type":"Point","coordinates":[0.68294816397996,42.597400244361438]}},{"type":"Feature","properties":{"fid":"28","Nombre":"Llauset 2","Altitud":null,"Url_imagen":"https://www.alberguesyrefugios.com/webcams#gallery-webcam-29"},"geometry":{"type":"Point","coordinates":[0.682861968146812,42.594855651177546]}},{"type":"Feature","properties":{"fid":"29","Nombre":"Escuela de Montaña de Benasque 1","Altitud":null,"Url_imagen":"https://www.alberguesyrefugios.com/webcams#gallery-webcam-30"},"geometry":{"type":"Point","coordinates":[0.517964287344056,42.603741454923075]}},{"type":"Feature","properties":{"fid":"30","Nombre":"Escuela de Montaña de Benasque 2","Altitud":null,"Url_imagen":"https://www.alberguesyrefugios.com/webcams#gallery-webcam-31"},"geometry":{"type":"Point","coordinates":[0.51692861615408,42.601225885369331]}},{"type":"Feature","properties":{"fid":"31","Nombre":"Aneto","Altitud":null,"Url_imagen":"https://cryopyrcams.es/aneto/"},"geometry":{"type":"Point","coordinates":[0.646792129473233,42.654628673485696]}},{"type":"Feature","properties":{"fid":"32","Nombre":"Monte Perdido","Altitud":null,"Url_imagen":"https://cryopyrcams.es/monte-perdido/"},"geometry":{"type":"Point","coordinates":[0.023085114075655,42.700753839877827]}}]}

diff --git a/styles/Nivmetros_4_style.js b/styles/Nivmetros_4_style.js
@@ -1,0 +1,86 @@
+var size = 0;
+var placement = 'point';
+function categories_Nivmetros_4(feature, value, size, resolution, labelText,
+                       labelFont, labelFill, bufferColor, bufferWidth,
+                       placement, textAlign, offsetX, offsetY, overflow, repeat) {
+    var valueStr = (value !== null && value !== undefined) ? value.toString() : 'default';
+    switch(valueStr) {
+        case 'AEMET':
+            return [ new ol.style.Style({
+        image: new ol.style.Circle({radius: 6.0 + size,
+            displacement: [0, 0], stroke: new ol.style.Stroke({color: 'rgba(35,35,35,1.0)', lineDash: null, lineCap: 'butt', lineJoin: 'miter', width: 0.0}), fill: new ol.style.Fill({color: 'rgba(207,18,78,1.0)'})}),
+        text: createTextStyle(feature, resolution, labelText, labelFont,
+                              labelFill, placement, bufferColor,
+                              bufferWidth, textAlign, offsetX, offsetY, overflow, repeat)
+    })];
+			break;
+
+        case 'Estación Esquí':
+            return [ new ol.style.Style({
+        image: new ol.style.Circle({radius: 6.0 + size,
+            displacement: [0, 0], stroke: new ol.style.Stroke({color: 'rgba(35,35,35,1.0)', lineDash: null, lineCap: 'butt', lineJoin: 'miter', width: 0.0}), fill: new ol.style.Fill({color: 'rgba(69,239,185,1.0)'})}),
+        text: createTextStyle(feature, resolution, labelText, labelFont,
+                              labelFill, placement, bufferColor,
+                              bufferWidth, textAlign, offsetX, offsetY, overflow, repeat)
+    })];
+			break;
+
+        case 'Observadores':
+            return [ new ol.style.Style({
+        image: new ol.style.Circle({radius: 6.0 + size,
+            displacement: [0, 0], stroke: new ol.style.Stroke({color: 'rgba(35,35,35,1.0)', lineDash: null, lineCap: 'butt', lineJoin: 'miter', width: 0.0}), fill: new ol.style.Fill({color: 'rgba(129,217,88,1.0)'})}),
+        text: createTextStyle(feature, resolution, labelText, labelFont,
+                              labelFill, placement, bufferColor,
+                              bufferWidth, textAlign, offsetX, offsetY, overflow, repeat)
+    })];
+			break;
+
+        case 'Refugios FAM':
+            return [ new ol.style.Style({
+        image: new ol.style.Circle({radius: 6.0 + size,
+            displacement: [0, 0], stroke: new ol.style.Stroke({color: 'rgba(35,35,35,1.0)', lineDash: null, lineCap: 'butt', lineJoin: 'miter', width: 0.0}), fill: new ol.style.Fill({color: 'rgba(203,154,49,1.0)'})}),
+        text: createTextStyle(feature, resolution, labelText, labelFont,
+                              labelFill, placement, bufferColor,
+                              bufferWidth, textAlign, offsetX, offsetY, overflow, repeat)
+    })];
+			break;
+
+        case 'SAIH':
+            return [ new ol.style.Style({
+        image: new ol.style.Circle({radius: 6.0 + size,
+            displacement: [0, 0], stroke: new ol.style.Stroke({color: 'rgba(35,35,35,1.0)', lineDash: null, lineCap: 'butt', lineJoin: 'miter', width: 0.0}), fill: new ol.style.Fill({color: 'rgba(21,80,206,1.0)'})}),
+        text: createTextStyle(feature, resolution, labelText, labelFont,
+                              labelFill, placement, bufferColor,
+                              bufferWidth, textAlign, offsetX, offsetY, overflow, repeat)
+    })];
+			break;
+    }};
+
+var style_Nivmetros_4 = function(feature, resolution){
+    var context = {
+        feature: feature,
+        variables: {}
+    };
+    
+    var labelText = ""; 
+    var value = feature.get("tipo");
+    var labelFont = "10px, sans-serif";
+    var labelFill = "#000000";
+    var bufferColor = "";
+    var bufferWidth = 0;
+    var textAlign = 'left';
+    var offsetX = 8;
+    var offsetY = 3;
+    var overflow = false;
+    var repeat = 0;
+    var placement = 'point';
+    if ("" !== null) {
+        labelText = String("");
+    }
+    
+    var style = categories_Nivmetros_4(feature, value, size, resolution, labelText,
+                          labelFont, labelFill, bufferColor,
+                          bufferWidth, placement, textAlign, offsetX, offsetY, overflow, repeat);
+
+    return style;
+};

diff --git a/styles/WebCamsPirineos_5_style.js b/styles/WebCamsPirineos_5_style.js
@@ -1,0 +1,41 @@
+var size = 0;
+var placement = 'point';
+
+var style_WebCamsPirineos_5 = function(feature, resolution){
+    var context = {
+        feature: feature,
+        variables: {}
+    };
+    
+    var labelText = ""; 
+    var value = feature.get("");
+    var labelFont = "10px, sans-serif";
+    var labelFill = "#000000";
+    var bufferColor = "";
+    var bufferWidth = 0;
+    var textAlign = 'left';
+    var offsetX = 8;
+    var offsetY = 3;
+    var overflow = false;
+    var repeat = 0;
+    var placement = 'point';
+    if ("" !== null) {
+        labelText = String("");
+    }
+    var style = [ new ol.style.Style({
+        image: new ol.style.Icon({
+                  imgSize: [580, 580],
+                  scale: 0.022413793103448276,
+                  anchor: [290.0, 290.0],
+                  anchorXUnits: "pixels",
+                  anchorYUnits: "pixels",
+                  rotation: 0.0,
+                  src: "styles/shopping_photo.svg"
+            }),
+        text: createTextStyle(feature, resolution, labelText, labelFont,
+                              labelFill, placement, bufferColor,
+                              bufferWidth, textAlign, offsetX, offsetY, overflow, repeat)
+    })];
+
+    return style;
+};

diff --git a/index.html b/index.html
@@ -58,8 +58,8 @@
         <script src="./resources/ol-layerswitcher.js"></script>
         <script src="resources/photon-geocoder-autocomplete.min.js"></script>
         <script src="resources/olms.js"></script>
-        <script src="layers/Nivmetros_3.js"></script><script src="layers/WebCamsPirineos_4.js"></script>
-        <script src="styles/Nivmetros_3_style.js"></script><script src="styles/WebCamsPirineos_4_style.js"></script>
+        <script src="layers/Nivmetros_4.js"></script><script src="layers/WebCamsPirineos_5.js"></script>
+        <script src="styles/Nivmetros_4_style.js"></script><script src="styles/WebCamsPirineos_5_style.js"></script>
         <script src="./layers/layers.js" type="text/javascript"></script> 
         <script src="./resources/Autolinker.min.js"></script>
         <script src="./resources/qgis2web.js"></script>        

diff --git a/resources/qgis2web.js b/resources/qgis2web.js
@@ -12,7 +12,7 @@ var map = new ol.Map({
 });
 
 //initial view - epsg:3857 coordinates if not "Match project CRS"
-map.getView().fit([-62913.865538, 5256765.583135, -13890.638598, 5287530.429291], map.getSize());
+map.getView().fit([25476.796629, 5245743.957366, 62307.364493, 5268025.372078], map.getSize());
 
 //change cursor
 function pointerOnFeature(evt) {
